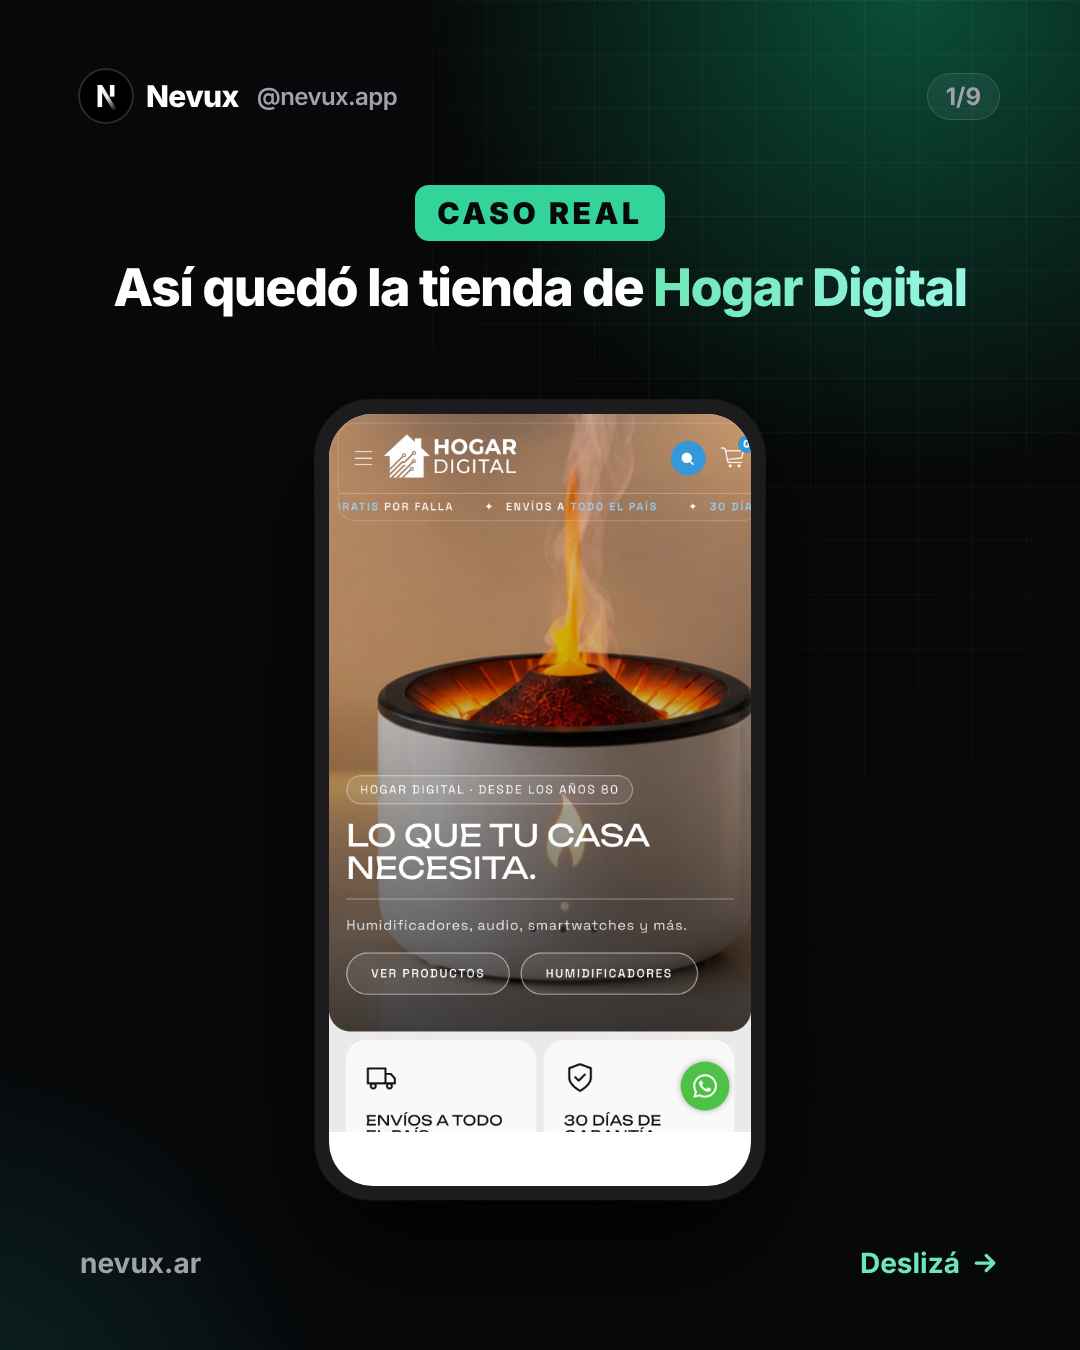
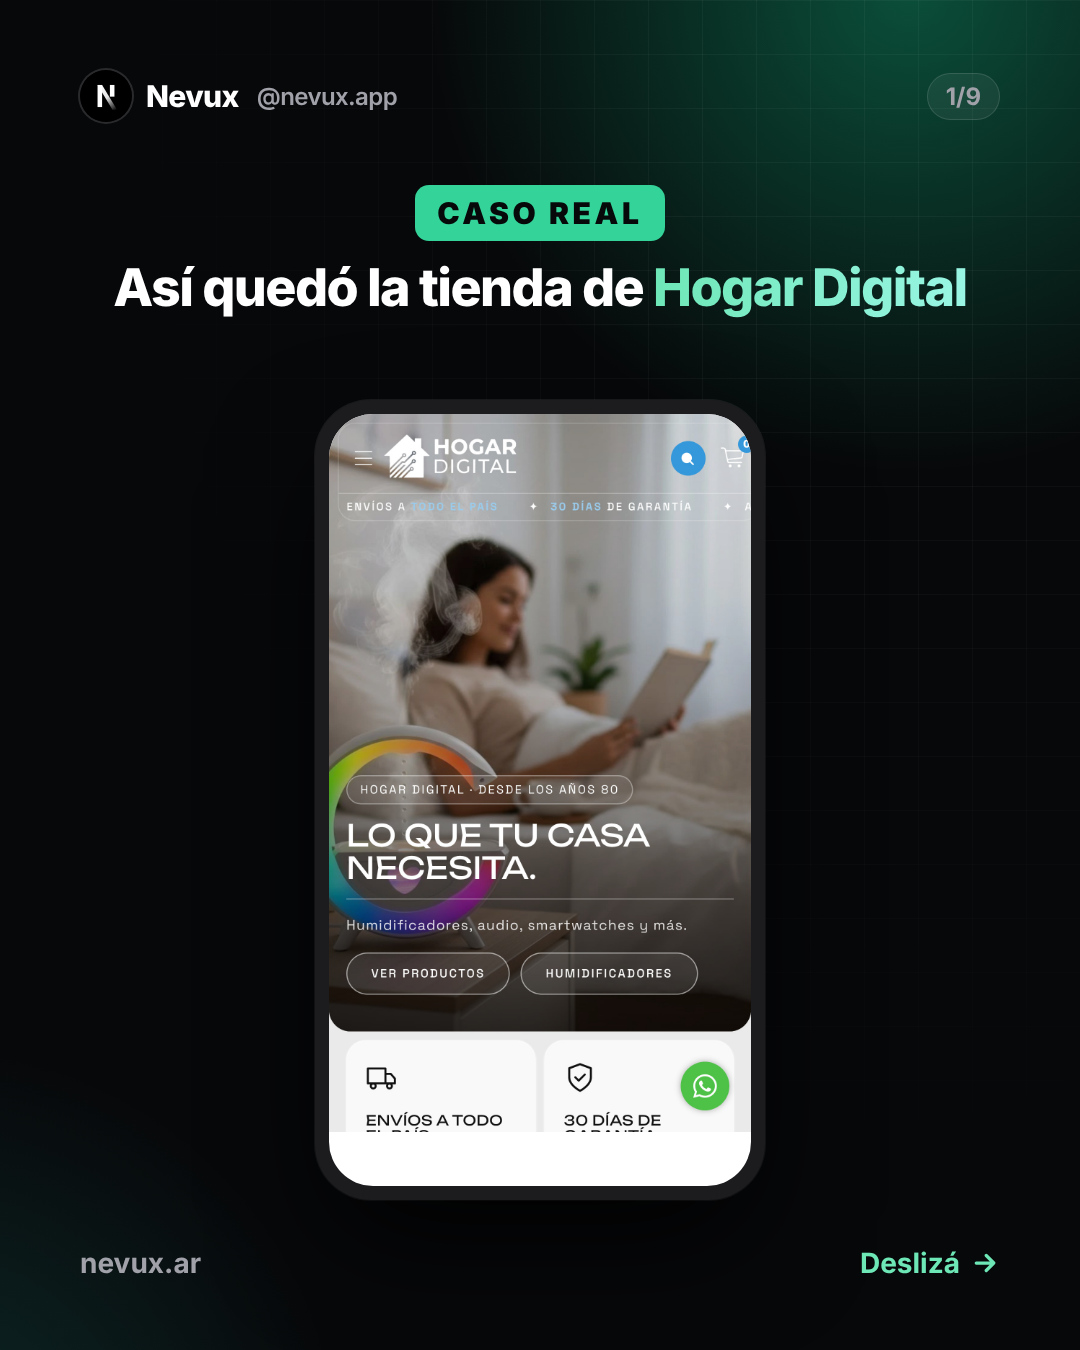
Instagram martes 3/11: capturas de Hogar Digital con los avisos de compra del Premium
Claude-Session: https://claude.ai/code/session_01PDD9EqZWNqQ4aXwpvh1oBT

Changed region(s): [[0.3056, 0.28, 0.7028, 0.7778], [0.6722, 0.6533, 0.7028, 0.6844]]

diff --git a/scripts/instagram/real-1.js b/scripts/instagram/real-1.js
@@ -1,6 +1,6 @@
 // Contenido con la tienda real de un cliente (pedido de Rodrigo, 02/11): nada de simulaciones.
 // Capturas de hogardigital.com.ar en celular (390 px, x3) con su configuración Premium de lib/clientes.ts,
-// sin la Semana Cyber (termina el 4/11) y sin los avisos de compra con nombres de ejemplo. Están en capturas/hd/.
+// sin la Semana Cyber (termina el 4/11) y con los avisos de compra del Premium (pedido de Rodrigo). Están en capturas/hd/.
 // Uso: node scripts/instagram/generar.js real-1
 const HASHTAGS = "#tiendanube #emprendedoresargentinos #tiendaonline #ecommerceargentina #ventasonline #emprender";
 const C = "capturas/hd/";
